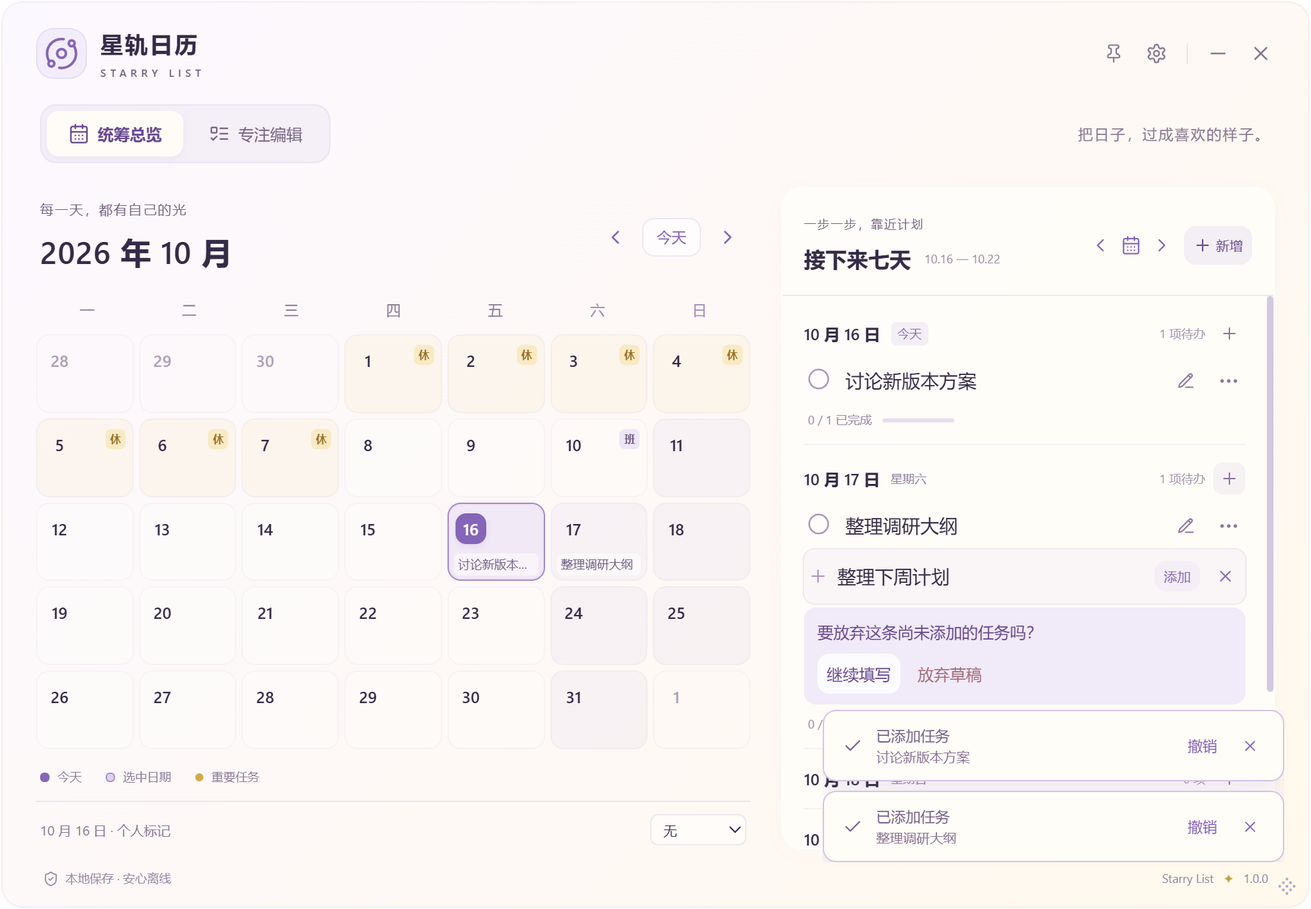
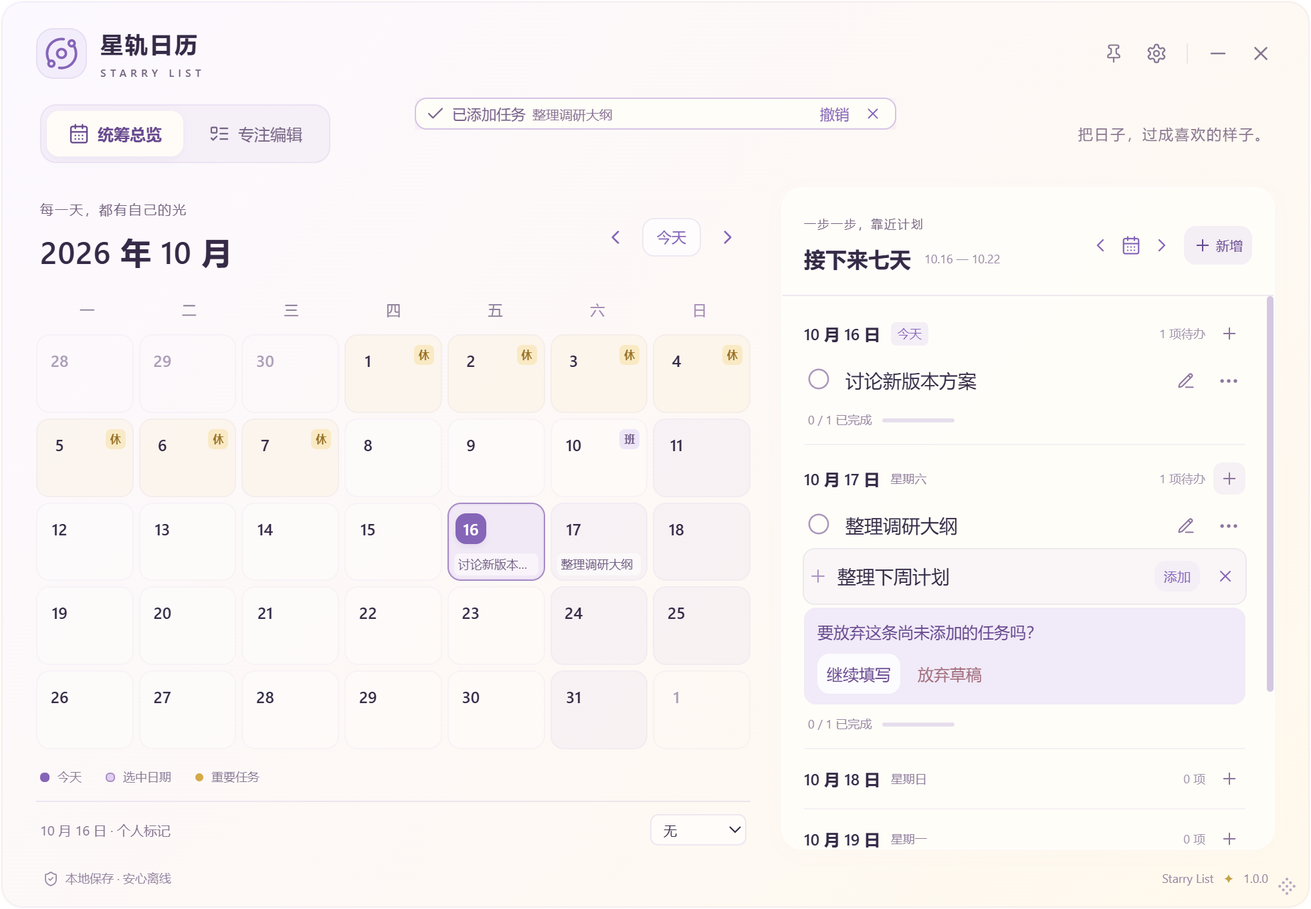
docs: record UX2.3 validation and acceptance status

diff --git a/docs/ROADMAP.md b/docs/ROADMAP.md
@@ -13,12 +13,12 @@ Windows 是当前主要平台，未来考虑 macOS。桌面驻留是待验证的
 | 范围                   | 已开发                                                                                                                  | 自动化测试                                                                               | 真实桌面测试                                                 | 用户验收                                        | 正式发布               |
 | ---------------------- | ----------------------------------------------------------------------------------------------------------------------- | ---------------------------------------------------------------------------------------- | ------------------------------------------------------------ | ----------------------------------------------- | ---------------------- |
 | 初始 V1.0 源码基线     | 已提交并 Push：[`830b88f`](https://github.com/YOLIIIIII/starry-list/commit/830b88f3ddc7fbf23084cab7a722db8dcbe45f2d)    | 首次 [GitHub CI](https://github.com/YOLIIIIII/starry-list/actions/runs/38733069296) 成功 | 原始记录为 Windows 11 验证；不等于所有 Windows 设备已认证    | 未记录完整 V1.0 最终验收                        | 没有 GitHub Release    |
-| SL-001 阅读 / 编辑分离 | 已实现并独立提交：[`23a7cd3`](https://github.com/YOLIIIIII/starry-list/commit/23a7cd3941a28d0724e254ca7b9bb71c9b8fd5c8) | UX2.2 TypeScript、Lint、88 项前端和 11 项 Rust 测试通过                                  | UX2.2 20 组原生回归通过，含宽窄抽屉、长文本、菜单及保存失败  | 用户认可大部分首轮改进；In Review，仍待最终验收 | 未发布，仅本地体验构建 |
-| SL-002 七天日程空状态  | UX2.2：区域/原生窗口失焦与导航自动新增，显式取消优先，新增可撤销                                                        | 88 项前端、11 项 Rust 通过                                                               | 20 组 Windows 11 测试通过，含真实 Edge 失焦、INSERT 失败重试 | In Review，待用户验收                           | 未发布                 |
+| SL-001 阅读 / 编辑分离 | 已实现并独立提交：[`23a7cd3`](https://github.com/YOLIIIIII/starry-list/commit/23a7cd3941a28d0724e254ca7b9bb71c9b8fd5c8) | UX2.3 TypeScript、Lint、100 项前端和 11 项 Rust 测试通过                                 | UX2.3 22 组原生回归通过，含宽窄抽屉、长文本、菜单及保存失败  | 用户认可大部分首轮改进；In Review，仍待最终验收 | 未发布，仅本地体验构建 |
+| SL-002 七天日程空状态  | UX2.3：保留可靠失焦新增，Enter 成功后返回原日期加号                                                                     | 100 项前端、11 项 Rust 通过                                                              | 22 组 Windows 11 测试通过，含真实 Edge 失焦、INSERT 失败重试 | In Review，待用户验收                           | 未发布                 |
 | SL-003 至 SL-018       | 待安排或想法，不因登记而实现                                                                                            | 未验证                                                                                   | 未验证                                                       | 未验收                                          | 未发布                 |
-| SL-019 快捷删除入口    | UX2.2：双视图入口保留，每条撤销提示独立 8 秒并支持暂停                                                                  | 88 项前端回归通过                                                                        | 真实 DELETE 失败、重试、撤销与菜单定位通过                   | In Review，待用户验收                           | 未发布                 |
+| SL-019 快捷删除入口    | UX2.3：顶部居中单行撤销通知，约 5 秒、独立计时及暂停                                                                    | 100 项前端回归通过                                                                       | 真实 DELETE 失败、重试、撤销与菜单定位通过                   | In Review，待用户验收                           | 未发布                 |
 | SL-004-A 局部字号      | UX2.1：新增文字、占位符和任务标题统一为 14px                                                                            | 前端检查通过                                                                             | 980 / 760 / 500 / 380px 无水平溢出，菜单命中及字号检查通过   | In Review，父需求 SL-004 保持未完成             | 未发布                 |
-| SL-021 行内标题修改    | UX2.2：七天日程铅笔入口，仅改标题                                                                                       | 88 项前端、11 项 Rust 回归通过                                                           | Enter/行外保存、真实 UPDATE 失败与正常关闭保护、宽窄布局通过 | In Review，待用户验收                           | 未发布                 |
+| SL-021 行内标题修改    | UX2.2：七天日程铅笔入口，仅改标题                                                                                       | 100 项前端、11 项 Rust 回归通过                                                          | Enter/行外保存、真实 UPDATE 失败与正常关闭保护、宽窄布局通过 | Done，2026-10-16 用户确认                       | 未发布                 |
 
 初始源码提交为 `830b88f`，首次规划提交为 [`2665774`](https://github.com/YOLIIIIII/starry-list/commit/2665774d9eb07af20a968ffbc4a04019e0d6214b)，此前均已 Push，首次规划的 [GitHub CI](https://github.com/YOLIIIIII/starry-list/actions/runs/38748524618) 也已成功。第一轮 UX 源码、测试、手册和截图现已整理为独立实现提交 `23a7cd3`，本次需求更新另作文档提交；不重复初始提交。详细证据见 [验证记录](VALIDATION.md) 与 [使用手册](USER_GUIDE.md)。上述首次规划与首轮 UX 记录保留；2026-10-16 本轮再次通过 11 项 Rust、74 项前端及 15 组桌面测试，已构建独立 Windows UX2 体验包，详见验证记录。本轮实现提交：[`242fad5`](https://github.com/YOLIIIIII/starry-list/commit/242fad550f17213ae2b2e7ad06819628b1257e67)。
 
@@ -43,7 +43,7 @@ UX2.1 实现提交：[`6d7c64e`](https://github.com/YOLIIIIII/starry-list/commit
 
 阶段 C、D 可以根据研究和产品价值并行或调整先后，不必串行等待。原 README 中 V1.1 / V2.0 列表已归入需求池，主题、分类、重复任务、搜索、macOS、云同步/备份、七天看板与跨日期拖动没有被视为已实现。
 
-## UX2.2 当前增量
+## UX2.2 历史增量
 
 实现提交：[`afd262f`](https://github.com/YOLIIIIII/starry-list/commit/afd262f6923828097b7ccb7bf39eb51680aa9da0)；88 项前端、11 项 Rust、20 组原生桌面回归及正式配置 Windows x64 NSIS 构建通过。独立体验包、校验值与未验证范围见 [验证记录](VALIDATION.md)。
 
@@ -53,13 +53,23 @@ UX2.1 实现提交：[`6d7c64e`](https://github.com/YOLIIIIII/starry-list/commit
 - 以上实现为 In Review，实际证据见 [验证记录](VALIDATION.md)；SL-004-A 保持 14px / In Review，SL-001 未关闭；SL-020 仍 Backlog，无拖动实现。
 - 下一轮先验收 UX2.2，再评审 SL-003 透明视觉，SL-004 全局字号和 SL-005 后续协调；SL-006 研究、SL-007 / SL-008 仍按既有依赖独立评估。
 
+## UX2.3 当前增量
+
+实现提交：[`277ca90`](https://github.com/YOLIIIIII/starry-list/commit/277ca906816e94aa76eaabb0726800bafdd16054)；100 项前端、11 项 Rust、22 组 Windows 11 桌面回归及正式配置 NSIS 构建通过，未正式发布。
+
+- 用户已认可应用内/真实 Windows 失焦新增、新增撤销与七天行内标题修改。核对验收标准及现有证据后，SL-021 为 Done（用户确认日期 2026-10-16），仍未正式发布。
+- SL-002：总览输入框 Enter 保存成功后返回原日期加号，第二次 Enter 继续新增；保存期间的新操作取消返回，失焦自动保存保持不抢焦点。继续 In Review，等待连续新增验收。
+- SL-019：新增/删除撤销通知顶部居中、紧凑单行、约 5 秒；有效撤销独立管理，支持计数按钮逐条查看，弹窗/抽屉期间隐藏并暂停。继续 In Review，待位置/时长验收。
+- 14px 与 SL-004-A / In Review 不变，SL-001 不关闭；SL-018 / SL-020、SL-022 / SL-023 不变，无新增编号和拖动/星河实现。实际测试与体验构建见 [验证记录](VALIDATION.md)。
+- 下一轮先验收 UX2.3，再按原顺序评审 SL-003 透明视觉；全局字号、顶部优化与驻留研究仍需独立授权。
+
 ## 未来独立设计阶段：每日星星与星河
 
 [SL-022](PRODUCT_BACKLOG.md#sl-022) P2 / Backlog：先明确零计划、部分完成、全完成与事后编辑/删除/补录的历史规则，再设计月历星星，不遮挡原有内容。
 
 [SL-023](PRODUCT_BACKLOG.md#sl-023) P2 / Idea：依赖 SL-022 的统计语义，先评审月/年回顾、原创中心角色和规划/完成星轨。半数与四分之三仅为候选门槛，月中分母、无计划日和历史奖励保留尚未决定。无连续打卡与惩罚；不承诺版本或日期，本轮无代码或最终资产。
 
-## 既有 UX2.1 推荐顺序（保留背景，本轮验收以 UX2.2 为准）
+## 既有 UX2.1 推荐顺序（保留背景，本轮验收以 UX2.3 为准）
 
 1. **先体验已完成开发的 SL-002 / SL-019 / SL-004-A。** 用户已体验 UX2：空白收起、删除撤销和数据保持良好，非空切换繁琐、重复编辑入口及 15px 偏大已据反馈进行 UX2.1 精修；提供独立默认透明 UX2.1 安装包：确认空白收起、非空草稿保护、单条编辑/删除及撤销、14px 输入与标题、窄窗口菜单。这里不再把它们列为尚未开发事项；用户验收后再逐项决定 Done。
 2. **完成 SL-001 / SL-002 及本轮子项的用户验收与边界回归。** SL-001 / SL-002 保留 In Review，直到各自条件实际满足。检查新增草稿、输入法、保存失败、删除撤销和宽窄窗口。SL-004-A 的验收单独记录，不提前关闭全局字号父需求；代码提交和自动化通过均不能代替用户确认。

diff --git a/docs/USER_GUIDE.md b/docs/USER_GUIDE.md
@@ -4,7 +4,7 @@
 
 本文按 V1.0 实际界面、任务编辑器、设置及安装器配置编写。界面默认使用简体中文。安装器中的应用名称为 **Starry List**，应用窗口内显示「星轨日历」。
 
-2026-10-16 更新：以下说明对应 UX2.2 体验版；UX2 与更早安装包的交互可能不同。
+2026-10-16 更新：以下说明对应 UX2.3 体验版；UX2 与更早安装包的交互可能不同。
 
 ## 首次使用五分钟快速上手
 
@@ -29,9 +29,9 @@
 
 当前安装包未配置代码签名，Windows 可能显示「未知发布者」或 SmartScreen 提示。源码中的版权和安装包发布者显示现已统一为 `yoli`；现有旧安装包需要重新构建才会包含更新，见 [验证记录](VALIDATION.md)。该署名不是已验证的签名证书身份。请核对安装包来源及维护者提供的 SHA256。
 
-### 安装 UX2.2 体验版
+### 安装 UX2.3 体验版
 
-本轮默认透明版文件名为 `Starry-List_1.0.0_x64-ux2.2-preview-20261016-setup.exe`，配套校验文件为 `UX2.2-PREVIEW-20261016-SHA256SUMS.txt`，均在维护者本地 `artifacts/` 目录，不随源码上传 GitHub。它仍使用 1.0.0 和相同应用标识，会更新同一个应用，不是并行安装的第二套软件。
+本轮默认透明版文件名为 `Starry-List_1.0.0_x64-ux2.3-preview-20261016-setup.exe`，配套校验文件为 `UX2.3-PREVIEW-20261016-SHA256SUMS.txt`，均在维护者本地 `artifacts/` 目录，不随源码上传 GitHub。它仍使用 1.0.0 和相同应用标识，会更新同一个应用，不是并行安装的第二套软件。
 
 先在旧版设置中「导出 JSON」备份重要任务，再正常关闭旧版。运行新安装器，沿用原安装目录；如果检测到同版本，选择「添加/重新安装组件」继续覆盖，不要选择卸载。该选项已按实际生成的 NSIS 脚本核对，但本轮没有执行安装器验证。无需为了更新而手动卸载或删除数据目录。如果提示应用仍在运行，取消后正常退出旧版再重试。提示不明确时保留备份并取消，不要勾选「删除应用程序数据」来解决。安装后从开始菜单重新启动，检查任务和详情是否保留。
 
@@ -70,7 +70,7 @@
 
 ## 3. 在指定日期新增待办
 
-**总览中新增：**先看清日期分组，点击日期行右侧加号，在出现的「添加一件小事…」中输入标题，按 **Enter**；也可点击旁边出现的「添加」。成功后输入框收起并显示真实任务，请以真实任务和成功通知为准。任务自动归属该分组日期，而不是一律归到今天。
+**总览中新增：**先看清日期分组，点击日期行右侧加号，在出现的「添加一件小事…」中输入标题，按 **Enter**；也可点击旁边出现的「添加」。成功后输入框收起并显示真实任务。**通过输入框 Enter 保存成功后，焦点会返回刚才那个日期的加号，再按一次 Enter 就能继续添加同一天的下一条。**第一次 Enter 只保存；保存期间若点击、导航、按其他键或切换软件，会尊重新操作，不迟到地抢回焦点。点「添加」或失焦自动保存不执行此焦点返回。请以真实任务和成功通知为准。任务自动归属该分组日期，而不是一律归到今天。
 
 **专注中新增：**确认主区域顶部日期，在「当日清单」的列表最下方找到同样的输入栏。任务较多时，需要在列表里向下滚动。
 
@@ -82,7 +82,7 @@
 
 如果确实不想添加，按 Esc、点输入旁关闭按钮或再次点当前日期加号，会出现「要放弃这条尚未添加的任务吗？」：选择「继续填写」保留，选择「放弃草稿」才丢弃。空白直接收起，不创建空任务。专注模式的新增栏常驻，取消后清空；总览的新增栏会收起。参考 [取消新增确认](screenshots/quick-add.png)。
 
-中文输入法组合阶段不提交；若期间失焦，等待选词结束后的最终文字再尝试保存。若系统没有发出 compositionend，会保留草稿等待结束，不能声称已保存。主动导航请先完成选词。新增成功的「已添加任务」通知可点「撤销」真正移除误添加的任务；保存后 Esc 不再取消该任务。通知约 8 秒后结束，悬停/键盘焦点会暂停，可手动关闭。
+中文输入法组合阶段不提交；若期间失焦，等待选词结束后的最终文字再尝试保存。若系统没有发出 compositionend，会保留草稿等待结束，不能声称已保存。主动导航请先完成选词。新增成功的「已添加任务」通知可点「撤销」真正移除误添加的任务；保存后 Esc 不再取消该任务。通知约 5 秒后结束，悬停/键盘焦点会暂停，可手动关闭。
 
 新增输入、占位符和真实任务标题统一为 14px；目前仍没有全局字号档位。未添加的文字仍是草稿，强制结束进程无法保证恢复。**这与已有任务编辑抽屉不同**：抽屉取消/关闭/Esc 仍提供「继续编辑 / 放弃修改 / 保存并收起」；没有改动时直接关闭。
 
@@ -186,7 +186,7 @@
 
 专注删除图标可用 Tab 聚焦、Enter / Space 打开确认。总览菜单键盘操作：Tab 聚焦「任务操作」按钮，Enter / Space 打开；上下箭头或 Home / End 选择菜单项，Enter 执行；Esc 关闭并返回按钮，Tab 离开菜单。菜单跟随滚动重新定位，靠近窗口下边缘时向上展开。
 
-删除后出现「任务已删除」与任务标题，点「撤销」真正恢复原任务全部内容。每条通知约 8 秒后自动消失，鼠标悬停或键盘焦点停留时暂停，离开后继续剩余时间；也可手动关闭。连续删除会分别保留有效的撤销通知，不覆盖前一条，可在通知区滚动查看。撤销失败时保留重试。超时/关闭只结束撤销入口，不再次修改数据库；这不是长期回收站，退出后也不保留，重要任务仍应备份。
+窗口顶部居中的紧凑通知区显示「任务已删除」与任务标题，点「撤销」真正恢复原任务全部内容。每条通知约 5 秒后自动消失，鼠标悬停或键盘焦点停留时暂停，离开后继续剩余时间；也可手动关闭。连续删除会分别保留有效的撤销通知，不覆盖前一条，可点击右侧数量按钮逐条查看，也可用 Tab 访问各条撤销。撤销失败时保留重试。超时/关闭只结束撤销入口，不再次修改数据库；编辑抽屉、删除确认、设置或导入弹窗打开时，通知暂时隐藏并暂停计时，关闭后恢复。通知不推动主布局，只有通知本体和数量按钮接收鼠标点击。多个有效通知各自计时，未查看也会到时结束；如需保留撤销机会，可将鼠标或键盘焦点停在相应通知上。这不是长期回收站，退出后也不保留，重要任务仍应备份。
 
 ## 8. 节假日、补班与个人标记
 

diff --git a/docs/VALIDATION.md b/docs/VALIDATION.md
@@ -1,5 +1,36 @@
 # V1.0 验证记录
 
+## 2026-10-16：UX2.3 通知与连续新增修复
+
+范围仅为 SL-002 Enter 成功后的焦点返回及 SL-019 新增/删除通知位置与时长。失焦自动新增、已有任务完整编辑和 SQLite Schema 均未修改；14px 与 SL-004-A / In Review 不变，SL-022 / SL-023 仅规划。用户已认可 UX2.2 应用内/跨窗口失焦新增、新增撤销与七天行内修改；核对既有标准和测试证据后记录 SL-021 用户确认并标记 **Done**，仍未正式发布。SL-002 / SL-019 继续 **In Review**，等待本轮体验验收。
+
+- `npm run check`：TypeScript、ESLint、**100 项 Vitest**（53 项 App、5 项通知、31 项域逻辑、5 项 store、6 项窗口边界）与前端生产构建通过。Rust fmt、**11 项 Rust/SQLite 测试**及 Clippy `-D warnings` 通过。
+- **22 组真实 Windows 11 / WebView2 回归通过**。在三个不同日期各连续新增三条任务，确认第一次 Enter 只保存、成功后焦点返回正确加号、第二次 Enter 重新展开，SQLite 日期正确且无重复；清理的仅为隔离测试库中的自建记录。前端另外用延迟 Promise 验证等待成功才返回、指针/Tab/导航/窗口失焦取消迟到返回，按钮/外部点击保存不返回，失败保留草稿，按住 Enter 不提前聚焦或重复新增；IME 组合、取消优先和原编辑抽屉保护继续回归。
+- 焦点返回由 Enter 提交产生可取消请求，等该键释放和持久化成功，再检查当前视图、原日期按钮是否仍存在，以及原生窗口是否仍在前台。使用 Tauri `isFocused()` 后仅作 DOM focus，不调用原生 set-focus；测试专用 set-focus 权限仍只存在忽略的调试配置。浏览器单测明确模拟前台状态，不把 jsdom 的焦点行为当成真实桌面证据。
+- 真实跨软件：独立临时 profile 的 Edge 获得 Windows 前台，Starry List 原生 `is_focused` 确认为 false；失焦自动新增仅一次并保存原日期，保存后原生状态仍为 false，未重新激活窗口。只关闭测试脚本创建的应用/浏览器，不关闭用户应用。
+- 新增/删除通知由独立计时器管理，约 **5 秒**；hover / 键盘焦点暂停，离开恢复剩余时间，手动关闭和卸载清理，失败保留重试，超时不修改数据库。前端连续删除两条分别撤销仍通过；原生测试连续删除两条后暂停其中一条，另一条 5 秒到期，SQLite 不受影响，暂停项撤销完整恢复原任务。
+- 顶部居中 **24px 单行区域**不推动布局；多条保留各自撤销与计时，可通过数量按钮逐条查看或 Tab 访问。980 / 860 / 760 / 500 / 380px、两种主视图逐项检查与 Logo、窗口按钮、模式切换、日期导航、输入及主标题的几何交叠，均无交叠；区域外命中测试通过。窄窗口通知只临时隐藏装饰性眉题以使用现有间隙，不移动主体布局。编辑抽屉、删除确认、设置及导入弹窗隐藏并暂停撤销提示；真实抽屉打开超过 5 秒后仍可撤销，前端验证恢复剩余时长。
+- 真实 SQLite INSERT / UPDATE / DELETE 失败、重试、撤销、原日期、任务阅读/长文本、固定保存栏、关闭保护与重启持久化、导入导出及窗口能力继续回归。已有测试截图均来自自建隔离示例，并已逐张检查；不含用户壁纸、照片或个人任务。正式数据库主文件测试前后 SHA256 一致，未删除、迁移或重置用户数据。
+
+### 复现本轮隔离桌面测试
+
+Node.js 24、Rust、Windows WebView2 / Edge 就绪后，使用独立调试标识和测试专用权限；以下配置不得用于正式打包。
+
+```powershell
+New-Item -ItemType Directory -Force .cache | Out-Null
+'{"identifier":"app.starrylist.desktop.ux23-test","app":{"security":{"capabilities":["main-capability",{"identifier":"ux23-focus-test","windows":["main"],"permissions":["core:window:allow-set-focus"]}]}}}' | Set-Content .cache/ux23-desktop.conf.json -Encoding utf8NoBOM
+npm run tauri build -- --debug --no-bundle --config .cache/ux23-desktop.conf.json
+npm run test:desktop
+```
+
+### 体验构建与边界
+
[1 lines of base64/hex data omitted]
+
+未实际运行安装器、同版本覆盖、升级或卸载；未验证独立 Windows 10、真实中文 IME 候选窗、混合 DPI / 多显示器与不同 GPU。前端组合事件模拟及 WebView 缩放模拟不等于这些实机认证。进程崩溃、断电或强制结束不承诺尚未持久化的草稿恢复。普通浏览器失焦自动新增不受影响；慢速保存后再切换其他软件的防抢焦点由前端延迟测试覆盖，未对真实窗口额外注入 SQLite 慢写入。用户可按 [手册](USER_GUIDE.md) 自行备份、正常退出旧版后安装同版本体验包；不要选择删除应用程序数据。未创建 Tag 或正式 Release。
+
+本轮实现提交：[`277ca90`](https://github.com/YOLIIIIII/starry-list/commit/277ca906816e94aa76eaabb0726800bafdd16054)；需求、手册、验证和自建测试截图另作文档提交。
+
 ## 2026-10-16：UX2.2 快速操作精修
 
 本轮仅实现 SL-002 可靠失焦自动新增、SL-019 独立撤销提示计时和 SL-021 七天日程行内标题修改。上述事项仍为 **In Review**；SL-001、SL-004-A 不关闭，14px 不变，SL-004 全局字号未实现。SL-022 每日星星（P2 / Backlog）、SL-023 星河（P2 / Idea）仅登记设计，无星星统计、奖励、页面或最终视觉资产代码。SL-018 / SL-020 保持原编号与范围。

diff --git a/README.md b/README.md
@@ -140,7 +140,7 @@ docs/VALIDATION.md     验证范围与限制
 
 详细计划见 [开发路线图](docs/ROADMAP.md)，需求、优先级、状态与验收标准见 [产品需求池](docs/PRODUCT_BACKLOG.md)，重要取舍见 [产品决策记录](docs/DECISIONS.md)。登记需求不会自动启动开发，不承诺未经评估的版本范围或发布日期。
 
-UX2.2 增加 SL-002 区域/窗口失焦自动新增与撤销、SL-019 独立计时撤销提示、SL-021 七天日程行内标题编辑；SL-004-A 的 14px 保持不变；均为 In Review，待用户体验验收。SL-022 每日星星与 SL-023 星河仅登记。之后再评审透明视觉、全局字号和顶部空间。桌面驻留先研究可行性；自然周与切换流畅度可独立评估。主题、分类管理、重复任务、搜索、位置锁定、macOS 和可选云端能力均保留在需求池中。
+UX2.3 修复总览 Enter 保存后返回原日期加号的连续新增体验，新增/删除撤销通知移至顶部居中、约 5 秒；SL-002 / SL-019 仍 In Review，待用户体验验收。SL-021 行内标题编辑已记录用户确认并标记 Done，尚未正式发布；SL-004-A 的 14px 与 In Review 状态不变。SL-022 每日星星与 SL-023 星河仅登记。之后再评审透明视觉、全局字号和顶部空间。桌面驻留先研究可行性；自然周与切换流畅度可独立评估。主题、分类管理、重复任务、搜索、位置锁定、macOS 和可选云端能力均保留在需求池中。
 
 当前初始 V1.0 源码已同步，第一轮 UX 改进已作为独立实现提交 [`23a7cd3`](https://github.com/YOLIIIIII/starry-list/commit/23a7cd3941a28d0724e254ca7b9bb71c9b8fd5c8) 纳入历史；SL-001 / SL-002 仍为 In Review，等待最终用户验收。本项目尚无正式 GitHub Release。原 V1.1 / V2.0 列表作为候选想法整合到需求池，不代表已实现功能或发布日期。
 

diff --git a/README_EN.md b/README_EN.md
@@ -72,7 +72,7 @@ No accounts, cloud services, telemetry, remote fonts or network icons. Data is u
 
 See the [roadmap](docs/ROADMAP.md), [product backlog](docs/PRODUCT_BACKLOG.md) and [decision log](docs/DECISIONS.md) (Chinese). The Markdown backlog is the authoritative source for detailed requirements, priorities, states and acceptance criteria. Recording a request does not authorize implementation; no unassessed version scope or release date is promised.
 
-UX2.2 adds reliable quick-add saving on region/native-window blur, independent timed undo notifications and inline agenda title editing (SL-021). The existing 14px text remains unchanged. These changes remain In Review pending user acceptance. Daily stars (SL-022) and the galaxy/orbit space (SL-023) are planning only. See the backlog and validation record for current evidence.
+UX2.3 restores keyboard focus to the original date's add button after a successful Enter submission and moves independent undo notifications to a compact top-center area with a five-second lifetime. SL-002 / SL-019 remain In Review. Inline agenda title editing (SL-021) is Done following user confirmation, but has not been formally released. The existing 14px text and SL-004-A review status remain unchanged. Daily stars (SL-022) and the galaxy/orbit space (SL-023) are planning only. See the backlog and validation record for current evidence.
 
 The initial V1.0 source is pushed. First-round UX changes are recorded separately in implementation commit [`23a7cd3`](https://github.com/YOLIIIIII/starry-list/commit/23a7cd3941a28d0724e254ca7b9bb71c9b8fd5c8); SL-001 / SL-002 remain In Review pending final user acceptance. There is no published GitHub Release. Planned capabilities are not implemented features.
 

diff --git a/CHANGELOG.md b/CHANGELOG.md
@@ -2,7 +2,11 @@
 
 ## 未发布 — V1.0 发布前维护
 
-UX2 / UX2.1 为历史体验迭代记录，当前行为以 UX2.2 为准；均不代表正式 Release。
+UX2 至 UX2.2 为历史体验迭代记录，当前行为以 UX2.3 为准；均不代表正式 Release。
+
+- UX2.3 / SL-002：总览输入框 Enter 成功后返回原日期加号，第二次 Enter 可继续同日新增；指针、键盘、导航或窗口失焦取消迟到的焦点返回，失焦保存不抢焦点。
+- UX2.3 / SL-019：新增/删除撤销通知移至顶部居中单行区域，约 5 秒、独立计时，悬停/键盘焦点暂停；多条可逐条查看，弹窗/编辑抽屉期间隐藏并暂停，不挤动主布局。
+- 用户认可 UX2.2 失焦新增、新增撤销和行内编辑；核对证据后 SL-021 记录用户确认并标记 Done。SL-002 / SL-019 仍 In Review，14px 与 SL-004-A 状态不变；星星/星河规划不变。
 
 - UX2.2 / SL-002：快速新增在应用区域及原生窗口失焦时保存到原日期，成功才清稿，失败可重试，取消优先、IME 延后处理，新增成功支持撤销。
 - UX2.2 / SL-019：新增/删除撤销提示各自约 8 秒，悬停与键盘焦点暂停，连续删除不覆盖前一条有效操作。
